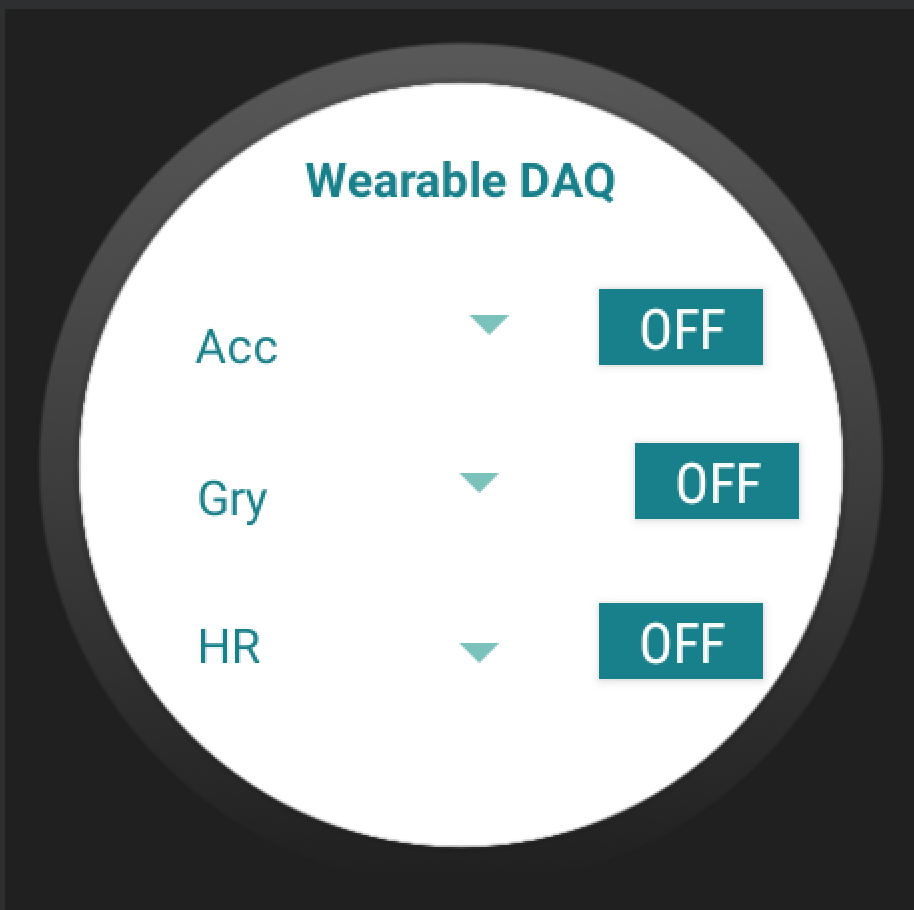
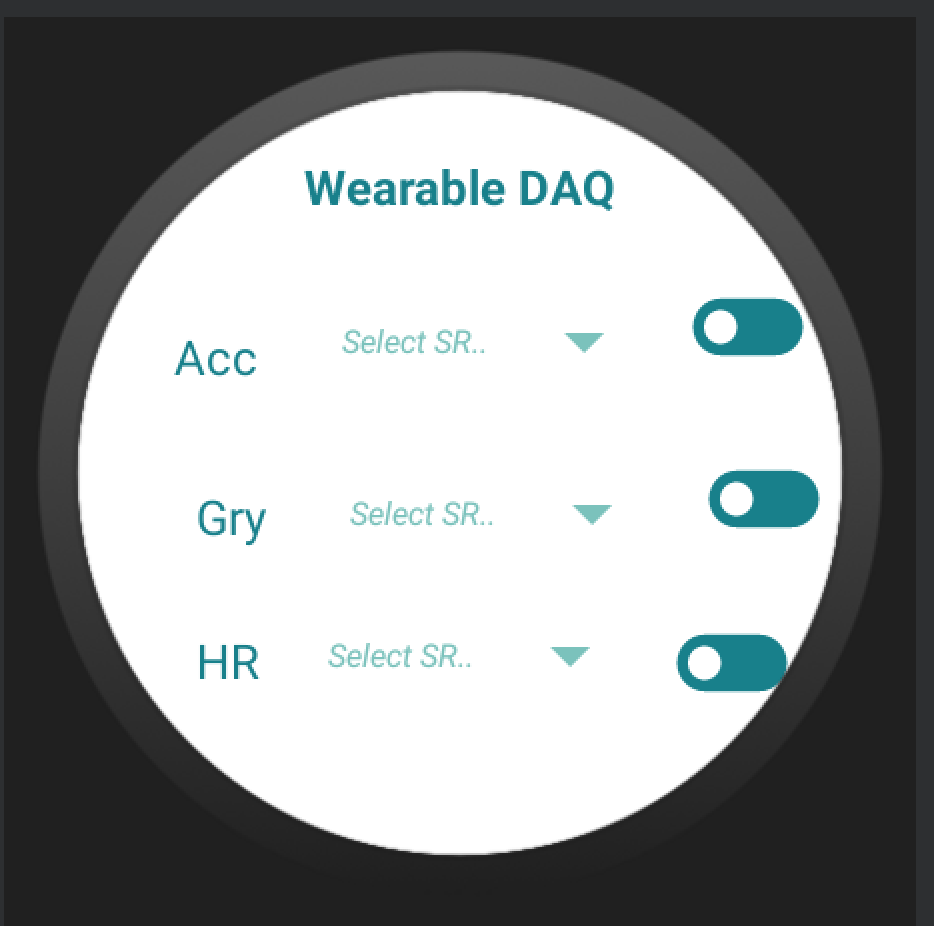
Toggle Button Updates

diff --git a/smartwatchDAQ/app/src/main/java/com/example/smartwatchdaq/MainActivity.java b/smartwatchDAQ/app/src/main/java/com/example/smartwatchdaq/MainActivity.java
@@ -38,11 +38,14 @@ import java.util.Calendar;
 import java.util.Date;
 import java.util.List;
 
+/* Useful Resources:
+*  https://developer.android.com/training/monitoring-device-state/battery-monitoring
+* */
 
 public class MainActivity<one> extends Activity implements SensorEventListener {
     SensorManager mSensorManager;
     private Sensor mAccelerometer;
-    // Variables to store data streams from Sesnosrs.
+    // Variables to store data streams from Sensosrs.
     ArrayList<String> AccelerometerData = new ArrayList<String>();
     ArrayList<String> GryData = new ArrayList<String>();
     ArrayList<String> HRData = new ArrayList<String>();
@@ -57,7 +60,10 @@ public class MainActivity<one> extends Activity implements SensorEventListener {
     Spinner spinnerSampleRate3;
     String JSONdata;
     // To get the selected value to use it in on_resume() methods.
-    String selected_value_sr;
+    String selected_value_sr_acc; // for Acc
+    String selected_value_sr_gry; // for gry
+    String selected_value_sr_hr; // for HR
+
     ToggleButton toggleSwitch;
     boolean acc = false;
     ToggleButton toggleSwitch2;
@@ -73,7 +79,7 @@ public class MainActivity<one> extends Activity implements SensorEventListener {
     protected void onCreate(Bundle savedInstanceState) {
         super.onCreate(savedInstanceState);
         // Initialize prefered sampling rates.
-        SampleRates.add(0, "Select SR");
+        SampleRates.add(0, "Select SR..");
         SampleRates.add("20000");
         SampleRates.add("30000");
         SampleRates.add("40000");
@@ -90,17 +96,22 @@ public class MainActivity<one> extends Activity implements SensorEventListener {
         toggleSwitch3 = findViewById(R.id.toggleButton3);
 
         spinnerSampleRate1 = findViewById(R.id.spinner);
+        spinnerSampleRate2 = findViewById(R.id.spinner2);
+        spinnerSampleRate3 = findViewById(R.id.spinner3);
 
         // Initializing the drop down menue.
-        ArrayAdapter<String> adapter= new ArrayAdapter<String>(MainActivity.this,android.R.layout.simple_list_item_1,SampleRates);
-        adapter.setDropDownViewResource(android.R.layout.simple_spinner_dropdown_item);
+        ArrayAdapter<String> adapter= new ArrayAdapter<String>(MainActivity.this,R.layout.selected_dropdown_item,SampleRates);
+        adapter.setDropDownViewResource(R.layout.dropdown_item);
         spinnerSampleRate1.setAdapter(adapter);
+        spinnerSampleRate2.setAdapter(adapter);
+        spinnerSampleRate3.setAdapter(adapter);
+
         spinnerSampleRate1.setOnItemSelectedListener(new AdapterView.OnItemSelectedListener() {
             @Override
             public void onItemSelected(AdapterView<?> adapterView, View view, int i, long l) {
-                String value =adapterView.getItemAtPosition(i).toString();
-                selected_value_sr = value;
-                Toast.makeText(MainActivity.this,value,Toast.LENGTH_SHORT).show();
+                selected_value_sr_acc  = adapterView.getItemAtPosition(i).toString();
+//                selected_value_sr = value;
+                //Toast.makeText(MainActivity.this,"SR selected:" + selected_value_sr_acc,Toast.LENGTH_SHORT).show();
             }
 
             @Override
@@ -108,52 +119,85 @@ public class MainActivity<one> extends Activity implements SensorEventListener {
 
             }
         });
-        /*Toggle Switch On Change Event listenters*/
-        toggleSwitch.setOnCheckedChangeListener(new CompoundButton.OnCheckedChangeListener() {
-            public void onCheckedChanged(CompoundButton buttonView, boolean isChecked) {
-                if (isChecked) {
+        spinnerSampleRate2.setOnItemSelectedListener(new AdapterView.OnItemSelectedListener() {
+            @Override
+            public void onItemSelected(AdapterView<?> adapterView, View view, int i, long l) {
+                selected_value_sr_gry  = adapterView.getItemAtPosition(i).toString();
+//                selected_value_sr = value;
+                Toast.makeText(MainActivity.this,"SR selected:" + selected_value_sr_gry,Toast.LENGTH_SHORT).show();
+            }
+
+            @Override
+            public void onNothingSelected(AdapterView<?> adapterView) {
+
+            }
+        });
+        spinnerSampleRate3.setOnItemSelectedListener(new AdapterView.OnItemSelectedListener() {
+            @Override
+            public void onItemSelected(AdapterView<?> adapterView, View view, int i, long l) {
+                selected_value_sr_hr  = adapterView.getItemAtPosition(i).toString();
+//                selected_value_sr = value;
+                Toast.makeText(MainActivity.this,"SR selected:" + selected_value_sr_hr,Toast.LENGTH_SHORT).show();
+            }
+
+            @Override
+            public void onNothingSelected(AdapterView<?> adapterView) {
+
+            }
+        });
+
+
+        /*Toggle Switch On Change Event listeners*/
+        toggleSwitch.setOnClickListener(new View.OnClickListener() {
+            @Override
+            public void onClick(View view) {
+                if(toggleSwitch.isChecked()){
                     // The toggle is enabled
                     // Run the sensor Activity in the background.
                     System.out.println("Toggle Button is ON !");
-                    System.out.println("DROP DOWN VALUE" + selected_value_sr);
-
+                    System.out.println("DROP DOWN VALUE---" + selected_value_sr_acc);
                     acc = true;
                     //startActivity(new Intent(MainActivity.this, SensorActivity.class));
                     onResume();
-                } else {
+                } else if(!toggleSwitch.isChecked()){
                     onPause();
                     System.out.println("Toggle Button is OFF !");
                     acc = false;
 //                    save_data(buttonView,  AccelerometerData);
-                    save_data(buttonView, AccelerometerData, "acc");
-                    save_Jsondata(buttonView,  JSONdata, "acc_info");
+                    save_data(view, AccelerometerData, selected_value_sr_acc +"_acc");
+                    save_Jsondata(view,  JSONdata, "acc_info");
                 }
             }
         });
-        toggleSwitch2.setOnCheckedChangeListener(new CompoundButton.OnCheckedChangeListener() {
-            public void onCheckedChanged(CompoundButton buttonView, boolean isChecked) {
-                if (isChecked) {
+        toggleSwitch2.setOnClickListener(new View.OnClickListener() {
+            @Override
+            public void onClick(View view) {
+                if (toggleSwitch2.isChecked()) {
                     // The toggle is enabled
                     // Run the sensor Activity in the background.
                     System.out.println("Toggle Button is ON !");
                     gry = true;
+                    System.out.println("DROP DOWN VALUE gry---" + selected_value_sr_gry);
+
                     //startActivity(new Intent(MainActivity.this, SensorActivity.class));
                     onResume();
                 } else {
                     onPause();
                     System.out.println("Toggle Button is OFF !");
                     gry = false;
-                    save_data(buttonView,  GryData,"gry");
+                    save_data(view,  GryData,selected_value_sr_gry+"_gry");
                 }
             }
         });
 
-        toggleSwitch3.setOnCheckedChangeListener(new CompoundButton.OnCheckedChangeListener() {
-            public void onCheckedChanged(CompoundButton buttonView, boolean isChecked) {
-                if (isChecked) {
+        toggleSwitch3.setOnClickListener(new View.OnClickListener() {
+            @Override
+            public void onClick(View view) {
+                if(toggleSwitch3.isChecked()){
                     // The toggle is enabled
                     // Run the sensor Activity in the background.
                     System.out.println("Toggle Button is ON !");
+                    System.out.println("DROP DOWN VALUE hr---" + selected_value_sr_hr);
                     hr = true;
                     //startActivity(new Intent(MainActivity.this, SensorActivity.class));
                     onResume();
@@ -161,7 +205,7 @@ public class MainActivity<one> extends Activity implements SensorEventListener {
                     onPause();
                     System.out.println("Toggle Button is OFF !");
                     hr = false;
-                    save_data(buttonView,  HRData,"hr");
+                    save_data(view,  HRData,selected_value_sr_hr + "_hr");
                 }
             }
         });
@@ -197,24 +241,25 @@ public class MainActivity<one> extends Activity implements SensorEventListener {
         super.onResume();
         // if recording acc data register listener for acc values.
         if (acc ==true){
+            System.out.println("Int Vale for SR --"+Integer.parseInt(selected_value_sr_acc));
             Sensor accelerometer = mSensorManager.getDefaultSensor(Sensor.TYPE_ACCELEROMETER);
             // To change the sampling rate apply it in microseconds.
             mSensorManager.registerListener((SensorEventListener) this, accelerometer,
-                    20000); // 50 Hz // 20000 = 50Hz in microseconds
+                    Integer.parseInt(selected_value_sr_acc)); // 50 Hz // 20000 = 50Hz in microseconds
         }
         // if recording acc data register listener for gry values.
         if (gry == true){
             Sensor gyroscope = mSensorManager.getDefaultSensor(Sensor.TYPE_GYROSCOPE);
             // To change the sampling rate apply it in microseconds.
             mSensorManager.registerListener((SensorEventListener) this, gyroscope,
-                    20000); // 50 Hz // 20000 microseconds = 50Hz in
+                    Integer.parseInt(selected_value_sr_gry)); // 50 Hz // 20000 microseconds = 50Hz in
         }
         // if recording acc data register listener for gry values.
         if (hr == true){
             Sensor heart_rate = mSensorManager.getDefaultSensor(Sensor.TYPE_HEART_RATE);
             // To change the sampling rate apply it in microseconds.
             mSensorManager.registerListener((SensorEventListener) this, heart_rate,
-                    20000); // 1 Hz // 1000000 = 1Hz
+                    Integer.parseInt(selected_value_sr_hr)); // 1 Hz // 1000000 = 1Hz
         }
        // HRData
     }
@@ -291,7 +336,7 @@ public class MainActivity<one> extends Activity implements SensorEventListener {
                 }
                 f.flush();
                 f.close();
-                Toast.makeText(getBaseContext(), "Data saved", Toast.LENGTH_LONG).show();
+                Toast.makeText(getBaseContext(), filename + " Data saved", Toast.LENGTH_LONG).show();
             } catch (IOException e) {
                 e.printStackTrace();
             }
